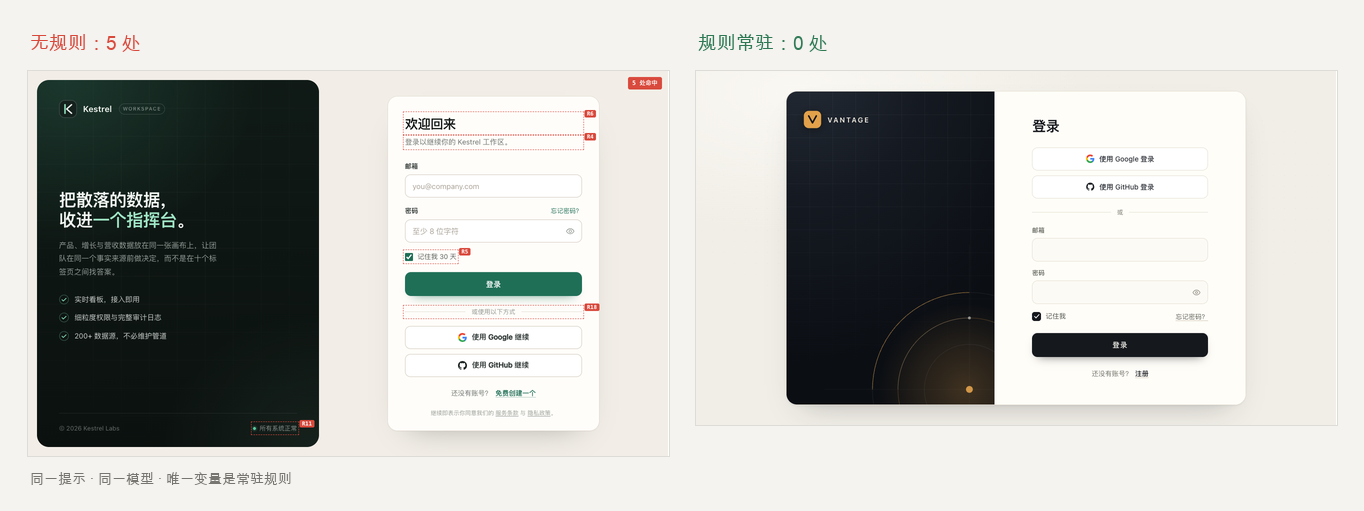
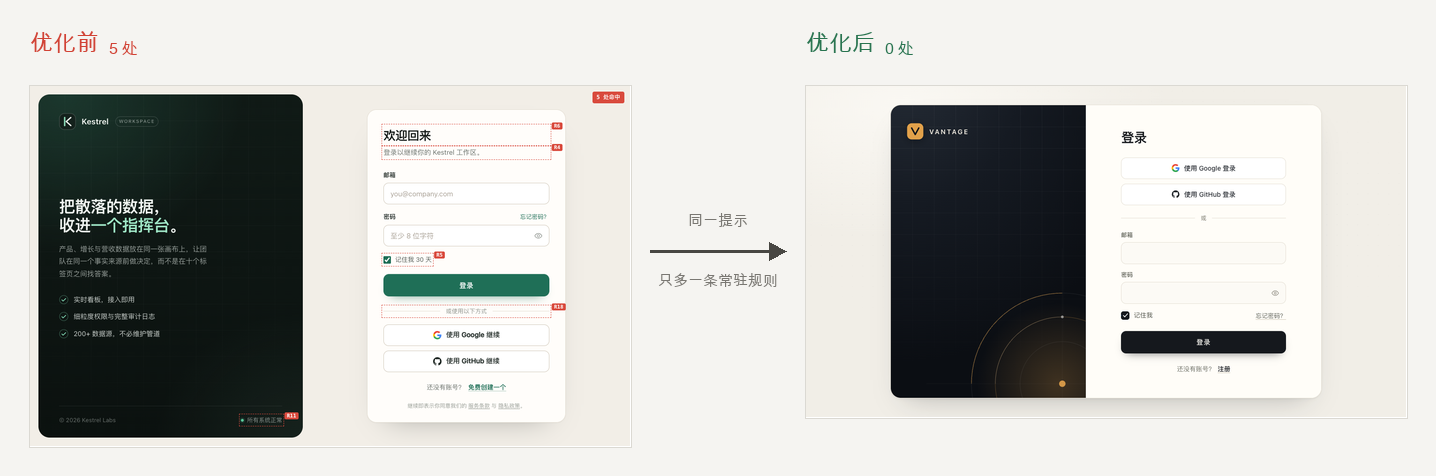
图里加优化前后标签与箭头，空白处补结果数据

diff --git a/README.md b/README.md
@@ -1,12 +1,12 @@
 # ui-copy-kit
 
-<img src="assets/landing-annotated.png" width="100%" alt="同一个提示词下，无规则与规则常驻两版落地页的对比，左侧标出扫描器命中的 8 处">
+<img src="assets/landing-annotated.png" width="100%" alt="优化前后对比：左侧落地页标出 8 处说明文字，右侧同一提示加上常驻规则后为 0 处，中间箭头标注同一提示只多一条常驻规则">
 
-*左：无规则。右：同一提示加了常驻规则。红框是扫描器报出的位置。*
+*红框是扫描器报出的位置。*
 
-同一提示、同一模型，只多一条常驻规则：落地页的说明文字从 8 处降到 0 处，六个界面的可见文字少了 43%，而标签、按钮、表头没有减少。
+六个界面、三种配置跑完：加上一条常驻规则，每页的说明文字都归零，整页文字少了四成，标签和按钮没有少。
 
-这里装的是扫描器、规则原文，和跑出上面这组数字的全部过程。要找的是副标题、图注、提示框、页脚废话、假徽章、`·` 串联的状态串这类文字。
+仓库里是扫描器、规则原文，和算出这组数字的全部过程。要找的是副标题、图注、提示框、页脚废话、假徽章、`·` 串联的状态串这类文字。
 
 ## 用
 
@@ -82,7 +82,7 @@ A 臂在临时移除规则的窗口里跑（备份、移除、跑完恢复，校
 
 登录页那一对，五处降到零：
 
-<img src="assets/auth-annotated.png" width="100%" alt="登录页对比：左侧标出欢迎语、副标题、衔接词、复选框说明和状态点五处命中，右侧为零">
+<img src="assets/auth-annotated.png" width="100%" alt="优化前后对比：左侧登录页标出欢迎语、副标题、衔接词、复选框说明和状态点共五处，右侧同一提示加规则后为零">
 
 ### 说明
 
